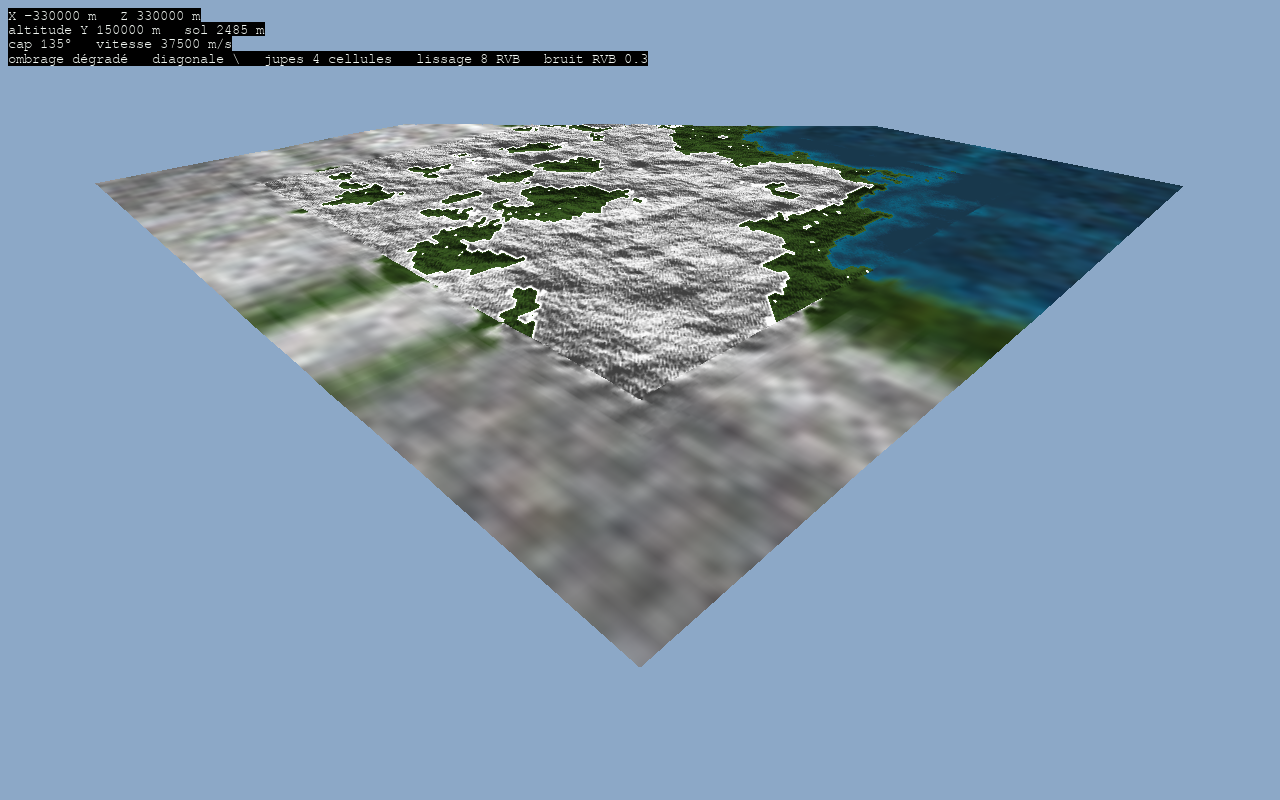
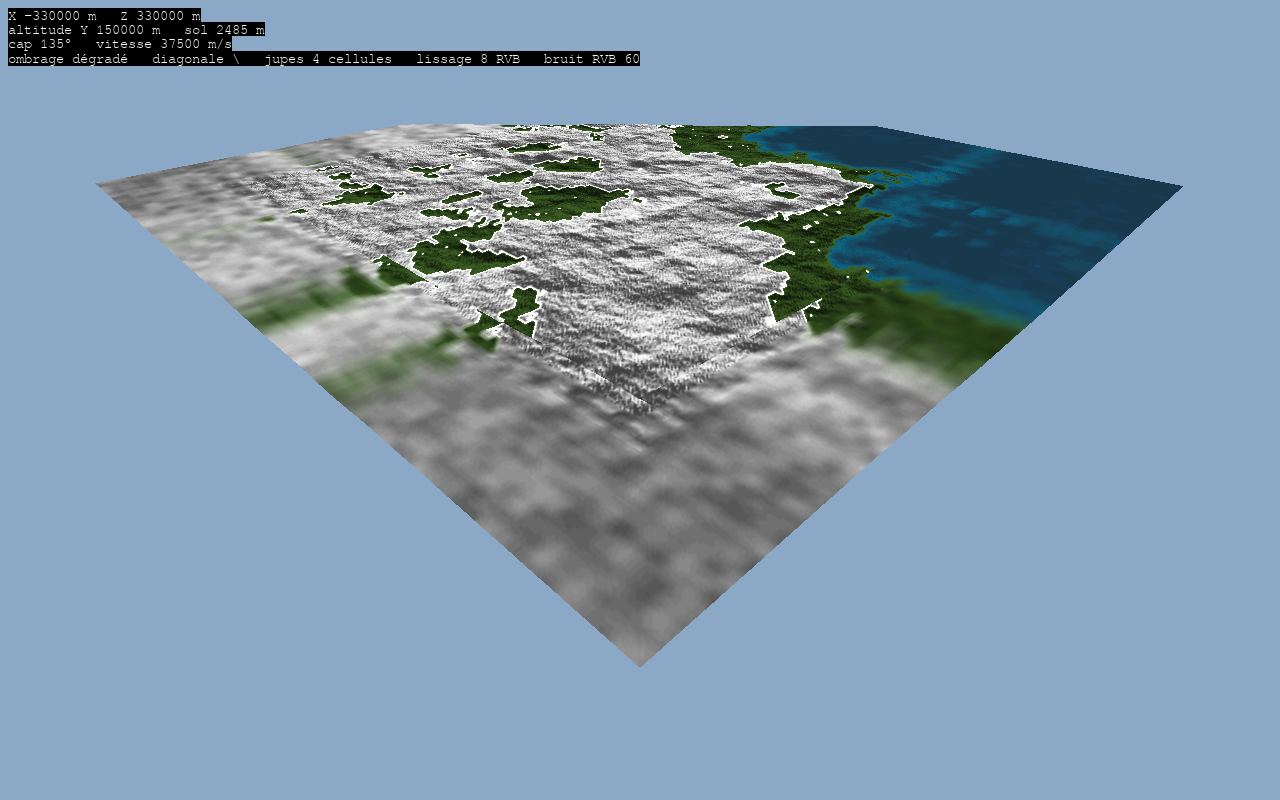
Jupes : bruit RVB le long des gammes de la palette (teintes de la carte), transition en S réglable (--skirt-ramp, 3 cellules) ; §5ter réécrit
Claude-Session: https://claude.ai/code/session_01ELuD73wzvuFqL7Wg1Bhx54

diff --git a/tools/terrain_3d.py b/tools/terrain_3d.py
@@ -25,9 +25,10 @@ r passant de 0 au bord à R sommets à 1,5 cellule ; --skirt-smooth-height lisse
 --skirt-smooth-rgb (touche C) : le lissage porte sur la couleur RVB affichée (palette) au lieu de
 l'éclairage et de la couleur majoritaire : le blanc et le vert se mélangent. Le bruit et les plaques
 ne s'appliquent pas dans ce mode.
---skirt-noise-rgb A (touche B) : bruit en RVB sur les jupes, après le lissage s'il est actif :
-luminosité × (1 + A × bruit) et décalage de teinte ± A/12 par canal (bruits indépendants), même
-rampe que le bruit d'éclairage (nul au bord, plein à 1,5 cellule). A ≈ 0,15 à 0,3.
+--skirt-noise-rgb A (touche B) : bruit sur la couleur RVB des jupes qui reste dans les teintes de la
+carte : chaque couleur de base présente autour du sommet glisse le long de SA gamme de la palette
+(éclairage + A × bruit), puis les couleurs sont mélangées selon leur part. A ≈ 40 à 80.
+--skirt-ramp C : largeur de la transition carte → jupe (lissage et bruits), en cellules, courbe en S.
 
 Dépendances : pip install pygame "PyOpenGL>=3.1.9" (pas besoin de numpy)
 
@@ -159,6 +160,13 @@ class Terrain:
         bottom = h[self.key(i + 1, j)] * (1 - u) + h[self.key(i + 1, j + 1)] * u
         return top * (1 - v) + bottom * v
 
+    ramp_cells = 3.0                    # largeur de la transition carte → jupe, en cellules
+
+    def ramp(self, out):
+        """0 au bord de la carte, 1 à ramp_cells cellules, courbe en S (smoothstep)."""
+        x = min(1.0, out / (self.ramp_cells * self.cn))
+        return x * x * (3 - 2 * x)
+
     @staticmethod
     def hash01(i, j):
         """Valeur pseudo-aléatoire déterministe dans [−1, 1] pour un nœud entier (i, j)."""
@@ -189,7 +197,7 @@ class Terrain:
         out = max(0, -i, i - (n - 1), -j, j - (n - 1))
         if out == 0 or amplitude == 0:
             return 0
-        ramp = min(1.0, out / (1.5 * self.cn))
+        ramp = self.ramp(out)
         x = j * self.spacing
         z = i * self.spacing
         noise = 0.65 * self.value_noise(x, z, 7300.0) + 0.35 * self.value_noise(x + 5000.0, z - 9000.0, 31000.0)
@@ -236,6 +244,8 @@ class Terrain:
         s_light = sat(self.light)
         s_h = sat(self.h) if with_height else None
         s_col = [sat([1.0 if c == k else 0.0 for c in self.colour]) for k in range(len(self.rang))]
+        present = sorted(set(self.colour))
+        s_lc = {k: sat([lv if c == k else 0.0 for lv, c in zip(self.light, self.colour)]) for k in present} if rgb else {}
 
         def box(s, a, b, r):
             a0 = a - r
@@ -250,7 +260,7 @@ class Terrain:
                 d = max(0, -i, i - (n - 1), -j, j - (n - 1))
                 if d == 0:
                     continue
-                r = int(round(radius * min(1.0, d / (1.5 * self.cn))))
+                r = int(round(radius * self.ramp(d)))
                 if r == 0:
                     continue
                 a = i - lo
@@ -260,24 +270,33 @@ class Terrain:
                 cv = max(range(len(s_col)), key=lambda k: box(s_col[k], a, b, r))
                 hv = box(s_h, a, b, r) / area if with_height else None
                 col = tuple(box(s, a, b, r) / area for s in s_rgb) if rgb else None
-                out[(i, j)] = (lv, cv, hv, col)
+                comp = None
+                if rgb:
+                    comp = []
+                    for k in present:
+                        cnt = box(s_col[k], a, b, r)
+                        if cnt > 0:
+                            comp.append((k, cnt / area, box(s_lc[k], a, b, r) / cnt))
+                out[(i, j)] = (lv, cv, hv, col, comp)
         return out
 
-    def rgb_noise(self, i, j, c, amplitude):
-        """Couleur RVB c du sommet affiché (i, j) modulée par le bruit des jupes ; inchangée dans la carte."""
+    def pal_rgb(self, c, lv):
+        """Couleur RVB (0..1) de la teinte de la couleur de base c pour l'éclairage lv (0..255)."""
+        first, shades, _ = self.rang[c] if c < len(self.rang) else self.rang[0]
+        lv = max(0, min(255, int(round(lv))))
+        tone = min(255, first + ((lv * shades + 128) >> 8))
+        return tuple(self.palette[3 * tone + q] / 255.0 for q in range(3))
+
+    def light_shift(self, i, j, amplitude):
+        """Décalage d'éclairage (unités de l'octet) du sommet affiché (i, j) : nul dans la carte."""
         n = self.n
         out = max(0, -i, i - (n - 1), -j, j - (n - 1))
         if out == 0 or amplitude == 0:
-            return c
-        f = amplitude * min(1.0, out / (1.5 * self.cn))
+            return 0.0
         x = j * self.spacing
         z = i * self.spacing
         lum = 0.65 * self.value_noise(x, z, 7300.0) + 0.35 * self.value_noise(x + 5000.0, z - 9000.0, 31000.0)
-        res = []
-        for q in range(3):
-            tint = self.value_noise(x + 7919.0 * (q + 1), z - 6271.0 * (q + 1), 17000.0)
-            res.append(max(0.0, min(1.0, c[q] * (1.0 + f * lum) + f / 12.0 * tint)))
-        return tuple(res)
+        return amplitude * self.ramp(out) * lum
 
     def terrain_mesh_rgb(self, slash, flat, skirt, smooth, noise_rgb=0.0):
         """Jupe en couleurs RVB : sommet lissé → sa couleur RVB moyenne ; sommet non lissé (au bord)
@@ -302,14 +321,18 @@ class Terrain:
             base = colour[ks[kb]]
             first, shades, _ = rang[base] if base < len(rang) else rang[0]
             cols = []
-            for k, s in zip(ks, ss):
-                if s is not None and s[3] is not None:
-                    cols.append(s[3])
+            for p, k, s in zip((p0, p1, p2), ks, ss):
+                shift = self.light_shift(p[0], p[1], noise_rgb) if noise_rgb else 0.0
+                if s is not None and s[4]:
+                    # mélange des couleurs de la carte présentes autour, chacune glissée le long de sa gamme
+                    acc = [0.0, 0.0, 0.0]
+                    for c, frac, lv in s[4]:
+                        rgbc = self.pal_rgb(c, lv + shift)
+                        for q in range(3):
+                            acc[q] += frac * rgbc[q]
+                    cols.append(tuple(acc))
                 else:
-                    tone = min(255, first + ((light[k] * shades + 128) >> 8))
-                    cols.append(tuple(pal[3 * tone + q] / 255.0 for q in range(3)))
-            if noise_rgb:
-                cols = [self.rgb_noise(q[0], q[1], c, noise_rgb) for q, c in zip((p0, p1, p2), cols)]
+                    cols.append(self.pal_rgb(base, light[k] + shift))
             if flat:
                 m = tuple(sum(c[q] for c in cols) / 3 for q in range(3))
                 cols = [m, m, m]
@@ -567,7 +590,10 @@ def main():
     ap.add_argument("--skirt-smooth-rgb", action="store_true",
                     help="le lissage porte sur la couleur RVB affichée (touche C)")
     ap.add_argument("--skirt-noise-rgb", type=float, default=0.0,
-                    help="essai esthétique : amplitude du bruit RVB des jupes (touche B ; ≈ 0,15 à 0,3)")
+                    help="essai esthétique : bruit RVB des jupes le long des gammes de la palette, "
+                         "amplitude en unités d'éclairage (touche B ; ≈ 40 à 80)")
+    ap.add_argument("--skirt-ramp", type=float, default=3.0,
+                    help="largeur de la transition carte → jupe, en cellules (défaut 3)")
     ap.add_argument("--skirt-noise", type=float, default=0.0,
                     help="amplitude du bruit d'éclairage des jupes (essai esthétique ; 40 ≈ ±4 teintes ; défaut 0)")
     args = ap.parse_args()
@@ -601,7 +627,8 @@ def main():
     smooth_cache = {}
 
     rgb_mode = args.skirt_smooth_rgb
-    noise_rgb_amp = args.skirt_noise_rgb if args.skirt_noise_rgb > 0 else 0.2
+    noise_rgb_amp = args.skirt_noise_rgb if args.skirt_noise_rgb > 0 else 60.0
+    world.ramp_cells = args.skirt_ramp
     noise_rgb = args.skirt_noise_rgb
 
     def use_rgb():

diff --git a/analysis/IMPL_TERRAIN_SKIRTS.md b/analysis/IMPL_TERRAIN_SKIRTS.md
@@ -339,48 +339,73 @@ la moyenne de son carré (`BoxSum / (2r + 1)²`). Il faut alors dessiner ces tri
 couleurs de sommet propres, sans appliquer la règle « couleur du sommet le plus haut » de
 `renderColoredTriangle`. Les textures restent celles des sommets source.
 
-### 5ter. Bruit en RVB, après le lissage (PAS le jeu)
+### 5ter. Bruit en RVB qui reste dans les teintes de la carte, et transition plus douce (PAS le jeu)
 
-Même idée que le §4, mais appliquée à la couleur RVB des copies, après le lissage RVB (§5bis) ou seul.
-Essai : `--skirt-smooth 8 --skirt-smooth-rgb --skirt-noise-rgb 0.3` (touche B), captures
+Essai : `--skirt-smooth 8 --skirt-smooth-rgb --skirt-noise-rgb 60 --skirt-ramp 3` (touche B), captures
 `data/ALASKA_3d_jupes_rvb_bruit.png` (coin) et `data/ALASKA_3d_jupes_rvb_bruit_sol.png` (vue basse).
 
+**Transition carte → jupe.** Remarque de Rémi : avec une rampe linéaire sur 1,5 cellule, la frontière
+entre la carte détaillée et la jupe lissée est trop nette. La rampe (lissage et bruits) devient une
+courbe en S sur `ramp_cells` cellules (3 par défaut) :
+
 ```
-f      = A × rampe                      (rampe : 0 au bord, 1 à 1,5 cellule, comme au §4)
-lum    = 0,65 × bruitValeur(7,3 km) + 0,35 × bruitValeur(31 km)
-teinte = bruitValeur(17 km), un tirage indépendant par canal (décalage de position différent)
-canal' = clamp(canal × (1 + f × lum) + f / 12 × teinte, 0, 1)
+x     = min(1, d / (ramp_cells × n))          (d = distance hors carte en sommets)
+rampe = x² × (3 − 2x)
 ```
 
-Constat :
-- A ≈ 0,3 : la surface lissée gagne des variations douces de luminosité (marbrures de 5 à 30 km) qui
-  évitent l'aspect « flou » uniforme, sans faire réapparaître la répétition ;
-- la variation de teinte doit rester faible : avec ± A/3 par canal (premier essai), des reflets rose
-  et violet apparaissent ; à ± A/12 la teinte reste dans les verts, gris et bleus de la carte.
+**Bruit dans les teintes de la carte.** Remarque de Rémi : le bruit doit rester dans les teintes de la
+carte. Un premier essai décalait R, V et B séparément (reflets rose et violet) : abandonné. Le bruit
+fait maintenant **glisser chaque couleur de base le long de SA gamme de palette** (`RANG`), puis on
+mélange :
+
+```
+décalage = A × rampe × (0,65 × bruitValeur(7,3 km) + 0,35 × bruitValeur(31 km))   (unités d'éclairage)
+pour chaque couleur de base c présente dans le carré de lissage du sommet :
+    part_c        = nombre de sommets de couleur c / nombre de sommets du carré
+    éclairage_c   = moyenne de l'éclairage des sommets de couleur c du carré
+RVB = Σ_c part_c × palette[première_c + ((éclairage_c + décalage) × n_c + 128) >> 8]
+```
+
+Sans lissage (ou au ras du bord, r = 0) : `RVB = palette[teinte(couleur de base du triangle,
+éclairage du sommet + décalage)]`. Toute couleur affichée est donc une teinte de la carte ou un
+mélange de teintes présentes autour. A ≈ 40 à 80 (60 sur les captures).
+
+Calcul : en plus des tables du §5, une table de sommes cumulées par couleur de base c pour
+l'indicateur « le sommet est de couleur c » (part) et une pour « éclairage si le sommet est de
+couleur c, 0 sinon » (moyenne d'éclairage de c = somme / nombre).
 
 ```cpp
-// Couleur RVB (0..1) d'une copie hors carte, modulée par le bruit ; à appeler après le lissage RVB.
-static void ApplySkirtRgbNoise(float color[3], int gRow, int gCol, int side, int perBlock, float spacing,
-                               float amplitude) {
-    int out = 0;
-    out = std::max(out, -gRow);
-    out = std::max(out, gRow - (side - 1));
-    out = std::max(out, -gCol);
-    out = std::max(out, gCol - (side - 1));
-    if (out == 0) {
-        return;
-    }
-    float f = amplitude * std::min(1.0f, (float)out / (1.5f * (float)perBlock));
-    float x = gCol * spacing;
-    float z = gRow * spacing;
-    float lum = 0.65f * ValueNoise(x, z, 7300.0f) + 0.35f * ValueNoise(x + 5000.0f, z - 9000.0f, 31000.0f);
-    for (int q = 0; q < 3; q++) {
-        float tint = ValueNoise(x + 7919.0f * (float)(q + 1), z - 6271.0f * (float)(q + 1), 17000.0f);
-        float c = color[q] * (1.0f + f * lum) + f / 12.0f * tint;
-        color[q] = std::max(0.0f, std::min(1.0f, c));
+// Teinte RVB (0..1) de la couleur de base c pour un éclairage lv (0..255), formule du jeu.
+static void PaletteRgb(RSArea *area, int c, float lv, float rgb[3]) {
+    int light = std::max(0, std::min(255, (int)lroundf(lv)));
+    int tone = area->rangFirst[c] + ((light * area->rangCount[c] + 128) >> 8);
+    tone = std::min(255, tone);
+    Texel *t = Renderer.getPalette()->GetRGBColor(tone);
+    rgb[0] = t->r / 255.0f;
+    rgb[1] = t->g / 255.0f;
+    rgb[2] = t->b / 255.0f;
+}
+
+// Couleur d'une copie hors carte : mélange des couleurs de base du carré, chacune décalée sur sa gamme.
+// parts[c] et lights[c] viennent des tables de sommes cumulées ; shift = décalage du bruit.
+static void SkirtNoisyColor(RSArea *area, const float parts[], const float lights[], int colourCount,
+                            float shift, float out[3]) {
+    out[0] = 0.0f;
+    out[1] = 0.0f;
+    out[2] = 0.0f;
+    for (int c = 0; c < colourCount; c++) {
+        if (parts[c] <= 0.0f) {
+            continue;
+        }
+        float rgb[3];
+        PaletteRgb(area, c, lights[c] + shift, rgb);
+        out[0] += parts[c] * rgb[0];
+        out[1] += parts[c] * rgb[1];
+        out[2] += parts[c] * rgb[2];
     }
 }
 ```
 
-`ValueNoise` est celle du §4. Dans `SCRenderer`, `color` est `MapVertex::color` (les trois premières
-composantes).
+`rangFirst` / `rangCount` sont la première teinte et le nombre de teintes de chaque couleur de base
+(chunk `RANG` de `PALETTE.IFF`, voir la revue du renderer). Le décalage `shift` se calcule comme au
+§4 (`ValueNoise`), multiplié par `A × rampe`.
